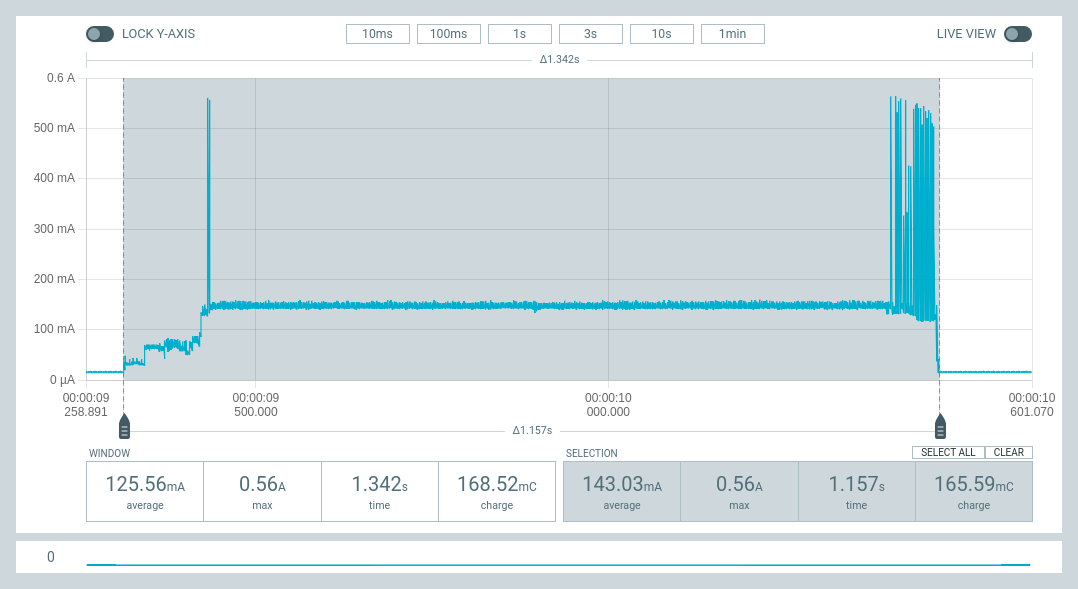
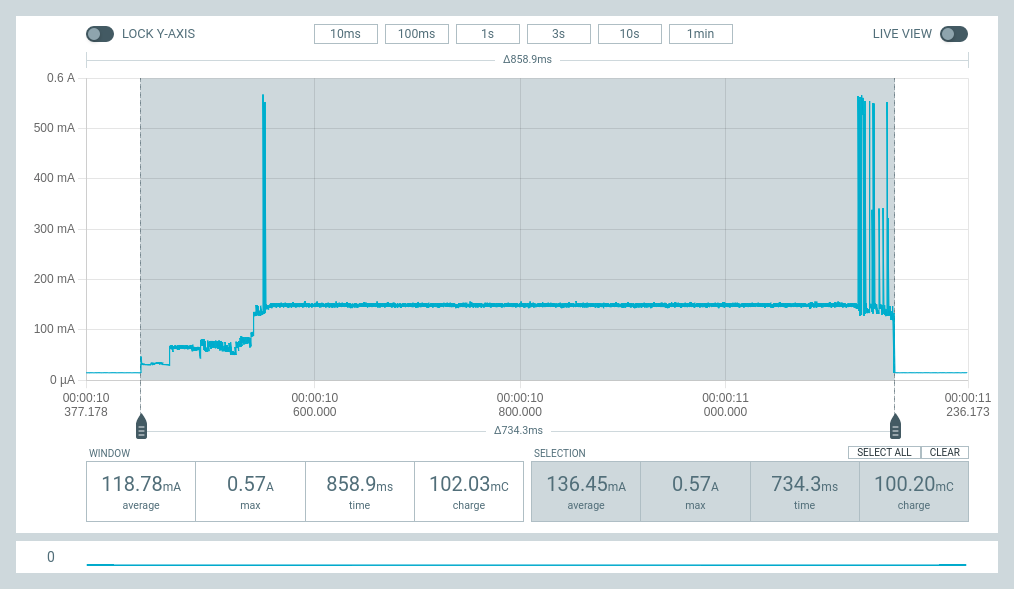
ESPNowvsWifi: Add boot and send MQTT test

diff --git a/ESPNowvsWifiEnergyUsage/README.md b/ESPNowvsWifiEnergyUsage/README.md
@@ -103,4 +103,5 @@ NOTES:
 |---|---|
 **ESP32 Boot, connect to wifi and DHCP, POST message:** Time to boot and return to deepsleep is 2928ms (341.3mC) . | ![_](./images/ppk-2-fast-boot_preboot-wifi-esp32.png)
 **ESP32 Boot, connect to Wifi and DHCP:** Time to connect to wifi and then deepsleep (ie. don't send message) is 1626ms (204.3mC). | ![_](./images/ppk-2-fast-boot_preboot-wifi-esp32-connect-only.png)
-**ESP32 Wifi connect - static IP:** Time to boot and return to deepsleep is 1157ms (165.6mC) | ![_](./images/ppk-2-fast-boot_preboot-wifi-esp32-connect-only-static-ip.png)
+**ESP32 Wifi connect - static IP:** Time to boot and return to deepsleep is 734.3ms (100.2mC) | ![_](./images/ppk-2-fast-boot_preboot-wifi-esp32-connect-only-static-ip.png)
+**ESP32 Wifi connect - MQTT - Static IP:** Time to boot and post MQTT message is 774ms (108.6mC) | ![_](./images/ppk-2-fast-boot_preboot-wifi-mqtt-static-ip.png)
